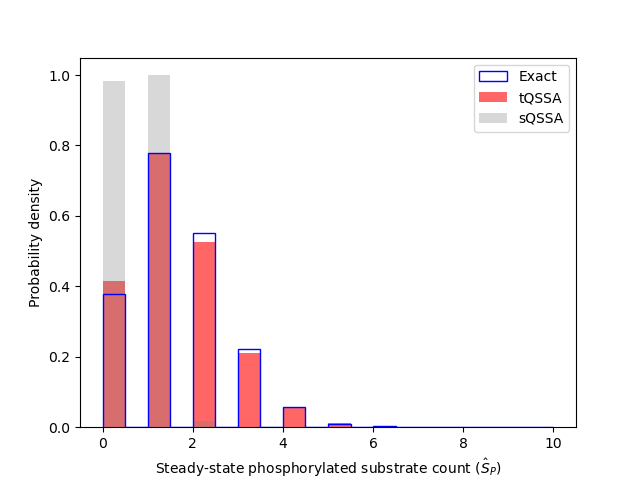
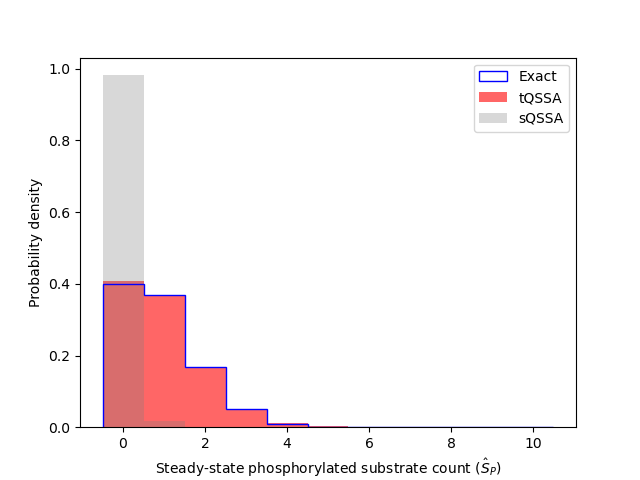
Fixed: weighting by time permanence of states when averaging in GUI-gillespie-stationary.py; out-of-range values are not displayed anymore in GUI-gillespie-completion-times.py; added checkbox option for histogram visualization in GUI-gillespie-stationary.py; corrected histograms and updated stats fi

diff --git a/GUIs/GUI-gillespie-stationary.py b/GUIs/GUI-gillespie-stationary.py
@@ -35,6 +35,10 @@ sys.path += ['..', '../stochastic-chemical-kinetics/pybind']
 import SimulationFunctionsOnly
 import gillespie
 
+def weighted_ave_sd(arr, weights):
+	average = np.average(arr, weights=weights)
+	variance = np.average((arr-average)**2, weights=weights)
+	return average, np.sqrt(variance)
 
 def run_simulation():
     """Run the simulation and plot the results."""
@@ -69,6 +73,7 @@ def run_simulation():
     g['sQSSA'] = gillespie.goldbeter_koshland_sqssa(kME=kME, ke=ke, kMD=kMD, kd=kd, ET=ET, DT=DT, ST=ST)
 
     SP_hats = {}
+    weights = {}
     init_conditions = {'Exact': [ST//2, 0, 0], 'tQSSA': [ST//2], 'sQSSA': [ST//2]}
     max_t = simulation_time
 
@@ -81,13 +86,18 @@ def run_simulation():
     for s in sim:
         g[s].x = init_conditions[s]
         g[s].t = 0
-        x, _ = g[s].simulate(t_final=max_t)
-        SP_hats[s] = np.sum(x[:,tracked_species[s]], axis=1)
+        x, t = g[s].simulate(t_final=max_t, max_steps=int(5e7))
+        SP_hats[s] = np.sum(x[:-1,tracked_species[s]], axis=1)
+        weights[s] = np.diff(t)
 
     for s in sim:
-        print(s, np.mean(SP_hats[s]), '+/-', np.std(SP_hats[s]))
+        average, sd = weighted_ave_sd(SP_hats[s], weights=weights[s])
+        print(s, average, '+/-', sd)
 
-    bins = np.linspace(0, ST, 21)
+    if always_div.get():
+        bins = np.linspace(0, ST, 21)
+    else:
+        bins = np.linspace(0, ST+1, ST+2) - 0.5
 
     # Plots
 
@@ -95,9 +105,9 @@ def run_simulation():
 
     # Add your histograms
 
-    ax.hist(SP_hats['Exact'], bins, label='Exact', density=True, color='blue', histtype='step', fill=False)
-    ax.hist(SP_hats['tQSSA'], bins, label='tQSSA', density=True, color='red', alpha=.6)
-    ax.hist(SP_hats['sQSSA'], bins, label='sQSSA', density=True, color='gray', alpha=.3)
+    ax.hist(SP_hats['Exact'], bins, weights=weights['Exact'], label='Exact', density=True, color='blue', histtype='step', fill=False)
+    ax.hist(SP_hats['tQSSA'], bins, weights=weights['tQSSA'], label='tQSSA', density=True, color='red', alpha=.6)
+    ax.hist(SP_hats['sQSSA'], bins, weights=weights['sQSSA'], label='sQSSA', density=True, color='gray', alpha=.3)
 
     ax.set_xlabel('Steady-state phosphorylated substrate count ($\hat{S}_P$)')
     ax.set_ylabel('Probability density')
@@ -134,6 +144,11 @@ ttk.Label(root, text='Simulation Time:').grid(row=6, column=0)
 entry_time = ttk.Entry(root)
 entry_time.insert(0, '10000')
 entry_time.grid(row=6, column=1)
+
+# Checkbox: always divide into 20 bins
+always_div = tk.BooleanVar()
+checkbox = ttk.Checkbutton(root, text="Always divide into 20 bins", variable=always_div)
+checkbox.grid(row=6, column=2)
 
 start_button = ttk.Button(root, text='Run simulation', command=run_simulation)
 start_button.grid(row=7, columnspan=6)

diff --git a/GUIs/GUI-gillespie-completion-times.py b/GUIs/GUI-gillespie-completion-times.py
@@ -51,13 +51,13 @@ def run_simulation():
         for i in range(n_simulations):
             g[s].x = init_conditions[s]
             g[s].t = 0
-            g[s].simulate(t_final=max_t, noreturn=True)
+            g[s].simulate(t_final=max_t+1, noreturn=True)
             completion_times[s][i] = g[s].t
 
     for s in sim:
         print(s, np.mean(completion_times[s]), '+/-', np.std(completion_times[s]))
 
-    bins = np.linspace(0, 9, 19)
+    bins = np.linspace(0, max_t, 19)
 
     ax.clear()
 
